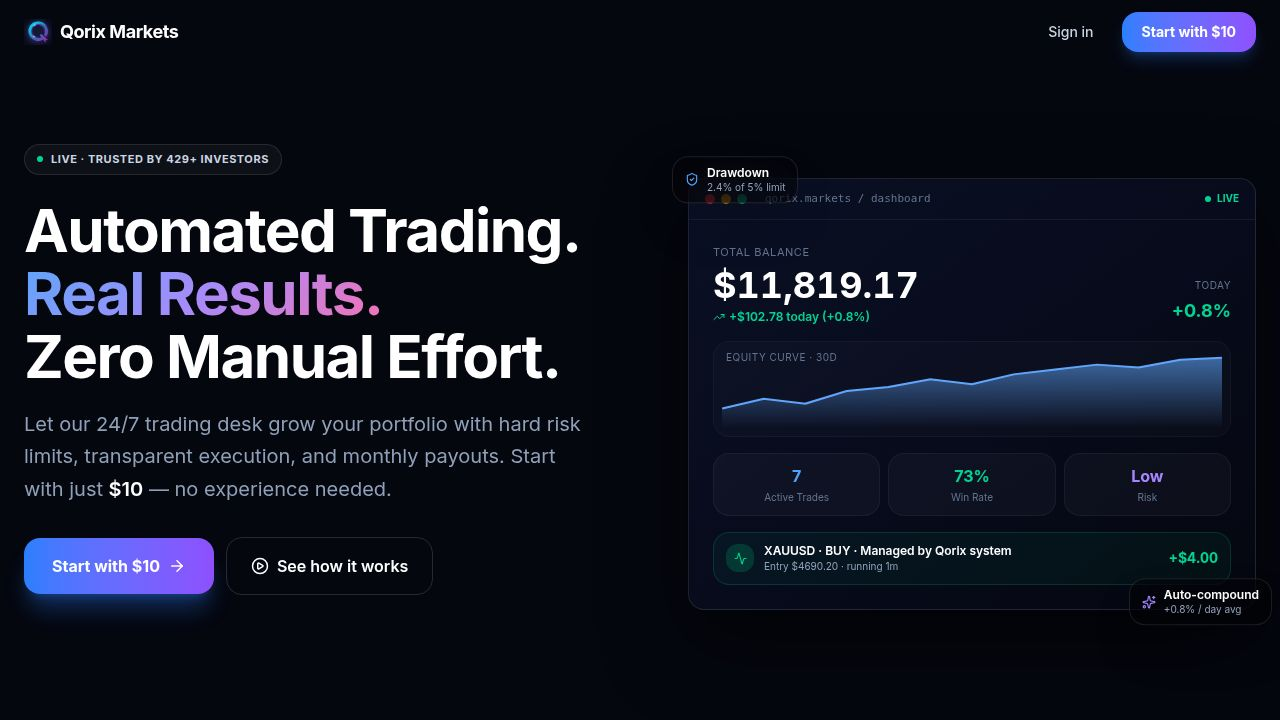
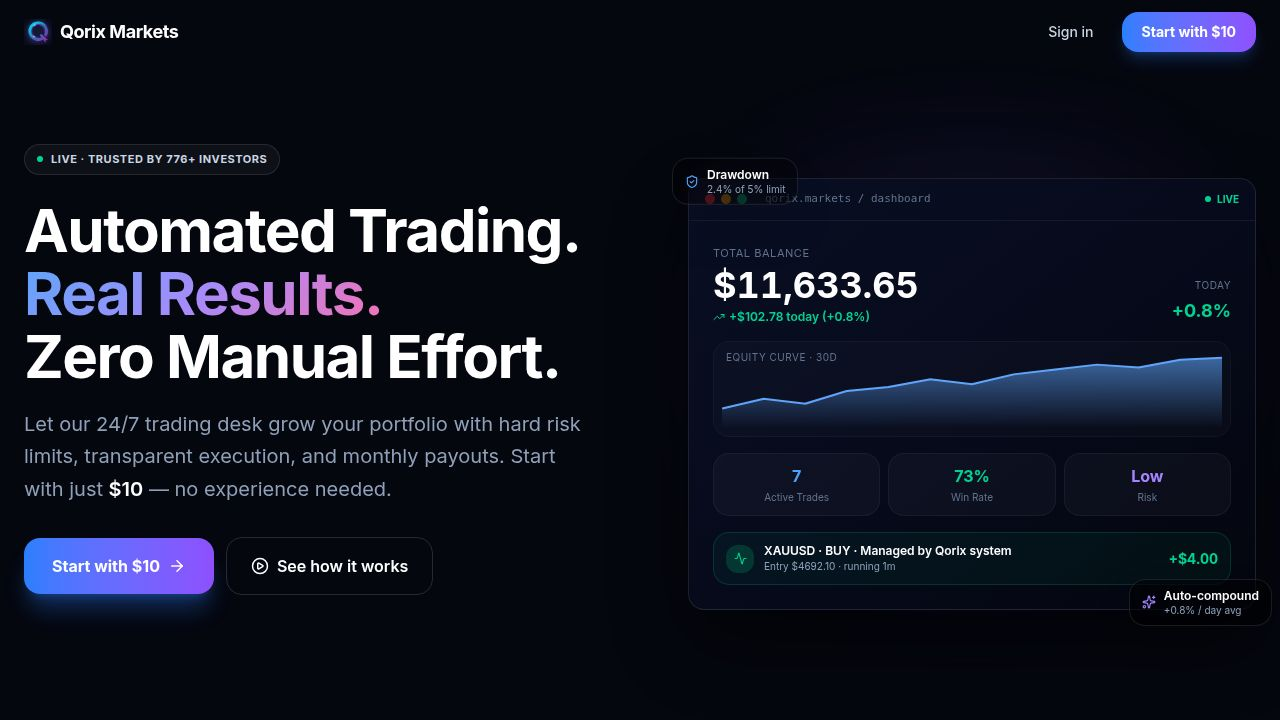
Enhance mobile homepage appearance and functionality
Hide the "High Impact" notification banner on public pages and redesign the mobile hero section with full-width CTA buttons and a refined trust pills layout.

Replit-Commit-Author: Agent
Replit-Commit-Session-Id: 0f1c994e-8fa6-49b3-97b6-d37cb96638a4
Replit-Commit-Checkpoint-Type: full_checkpoint
Replit-Commit-Event-Id: 2bf18a40-c764-4e8a-a713-3fbbe47f1800
Replit-Commit-Screenshot-Url: https://storage.googleapis.com/screenshot-production-us-central1/29fff743-8f1e-46b6-bb7f-badc0e257804/0f1c994e-8fa6-49b3-97b6-d37cb96638a4/4Cx7jek
Replit-Helium-Checkpoint-Created: true

diff --git a/artifacts/qorix-markets/src/pages/landing.tsx b/artifacts/qorix-markets/src/pages/landing.tsx
@@ -609,37 +609,39 @@ export default function Landing() {
             </FadeIn>
 
             <FadeIn delay={0.3}>
-              <div className="flex flex-wrap items-center gap-3 mb-8">
+              <div className="flex flex-col sm:flex-row sm:flex-wrap items-stretch sm:items-center gap-3 mb-8">
                 <button
                   onClick={() => navigate("/register")}
-                  className="group inline-flex items-center gap-2 px-7 py-4 rounded-2xl text-base font-bold text-white bg-gradient-to-r from-blue-500 to-violet-500 hover:from-blue-400 hover:to-violet-400 shadow-xl shadow-blue-500/30 hover:shadow-blue-500/50 transition-all"
+                  className="group relative inline-flex items-center justify-center gap-2 px-7 py-4 rounded-2xl text-base font-bold text-white bg-gradient-to-r from-blue-500 via-indigo-500 to-violet-500 hover:from-blue-400 hover:via-indigo-400 hover:to-violet-400 shadow-[0_10px_30px_-10px_rgba(99,102,241,0.7)] hover:shadow-[0_14px_40px_-8px_rgba(99,102,241,0.85)] transition-all overflow-hidden"
                 >
-                  Start with $10
-                  <ArrowRight size={18} className="group-hover:translate-x-1 transition-transform" />
+                  <span className="absolute inset-0 bg-gradient-to-r from-white/0 via-white/20 to-white/0 -translate-x-full group-hover:translate-x-full transition-transform duration-700" />
+                  <span className="relative">Start with $10</span>
+                  <ArrowRight size={18} className="relative group-hover:translate-x-1 transition-transform" />
                 </button>
                 <button
                   onClick={() => {
                     document.getElementById("how-it-works")?.scrollIntoView({ behavior: "smooth" });
                   }}
-                  className="inline-flex items-center gap-2 px-6 py-4 rounded-2xl text-base font-semibold border border-white/15 hover:border-white/30 hover:bg-white/5 transition-all"
+                  className="inline-flex items-center justify-center gap-2 px-6 py-4 rounded-2xl text-base font-semibold border border-white/15 hover:border-white/30 bg-white/[0.02] hover:bg-white/[0.06] backdrop-blur-sm transition-all"
                 >
-                  <PlayCircle size={18} />
+                  <PlayCircle size={18} className="text-blue-300" />
                   See how it works
                 </button>
               </div>
             </FadeIn>
 
             <FadeIn delay={0.4}>
-              <div className="flex flex-wrap items-center gap-x-5 gap-y-2 text-xs text-slate-400">
+              {/* Trust pills — premium card on mobile, inline on desktop */}
+              <div className="grid grid-cols-2 gap-2 sm:flex sm:flex-wrap sm:items-center sm:gap-x-5 sm:gap-y-2 p-3 sm:p-0 rounded-2xl sm:rounded-none border border-white/[0.06] sm:border-0 bg-white/[0.02] sm:bg-transparent">
                 {[
                   "No lock-in",
                   "Withdraw anytime",
                   "USDT (TRC20)",
                   "Drawdown protected",
                 ].map((t) => (
-                  <div key={t} className="flex items-center gap-1.5">
-                    <CheckCircle2 size={13} className="text-emerald-400" />
-                    {t}
+                  <div key={t} className="flex items-center gap-1.5 text-[11px] sm:text-xs text-slate-300 sm:text-slate-400">
+                    <CheckCircle2 size={13} className="text-emerald-400 shrink-0" />
+                    <span className="truncate">{t}</span>
                   </div>
                 ))}
               </div>

diff --git a/artifacts/qorix-markets/src/App.tsx b/artifacts/qorix-markets/src/App.tsx
@@ -239,12 +239,30 @@ function AppContent() {
   const { showSplash, onSplashDone } = useSplash();
   const [location] = useLocation();
   const isAdminArea = location.startsWith("/admin");
+  // Don't show the floating "High Impact" market alert on public/marketing
+  // pages — it overlaps the hero on mobile and is only meaningful for
+  // logged-in investors.
+  const isPublicArea =
+    location === "/" ||
+    location === "" ||
+    location.startsWith("/login") ||
+    location.startsWith("/register") ||
+    location.startsWith("/signup") ||
+    location.startsWith("/forgot") ||
+    location.startsWith("/reset") ||
+    location.startsWith("/verify") ||
+    location.startsWith("/auth") ||
+    location.startsWith("/legal") ||
+    location.startsWith("/terms") ||
+    location.startsWith("/privacy") ||
+    location.startsWith("/about") ||
+    location.startsWith("/contact");
 
   return (
     <MaintenanceGate>
       {showSplash && <SplashScreen onDone={onSplashDone} />}
       <Router />
-      {!isAdminArea && <HighImpactNotificationBanner />}
+      {!isAdminArea && !isPublicArea && <HighImpactNotificationBanner />}
       {!isAdminArea && <QorixAssistant />}
       {!isAdminArea && <PWAInstallPrompt />}
     </MaintenanceGate>